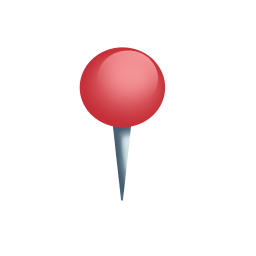
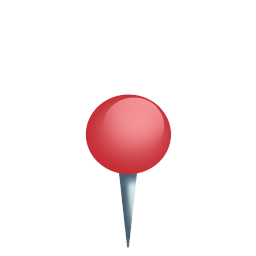
lots of things idr

Changed region(s): [[0.3125, 0.1562, 0.6875, 0.9688]]

diff --git a/src/main.c b/src/main.c
@@ -13,6 +13,8 @@
 #include "click.h"
 #include "vectors.h"
 
+#include "create_popup.h"
+
 int main(int argc, char** argv){
 
 
@@ -37,7 +39,7 @@ int main(int argc, char** argv){
 	}
 
 	for(uint32_t i=0; i<WIDTH*HEIGHT; i++){
-		layer_background[i] = 0xff000000;
+		layer_background[i] = 0xffffffff;
 		layer_ui[i] = 0x00000000;
 		layer_overlay[i] = 0x00000000;
 	}
@@ -59,21 +61,27 @@ int main(int argc, char** argv){
 	
 	texture_t img_button_world = load_image("assets/button_world.png");
 	texture_t img_button_heat = load_image("assets/button_heat.png");
+	texture_t img_button_wind = load_image("assets/button_wind.png");
+	texture_t img_button_humidity = load_image("assets/button_humidity.png");
 
 	texture_t img_solarpanel_base = load_image("assets/solarpanel_base.png");
 	texture_t img_solarpanel_humid = load_image("assets/solarpanel_humid.png");
 	texture_t img_solarpanel_hot = load_image("assets/solarpanel_hot.png");
 	texture_t img_solarpanel_cloudy = load_image("assets/solarpanel_cloudy.png");
 	texture_t img_windturbine_base = load_image("assets/windturbine_base.png");
-	qlog("loaded testimg\n");
-	disp_image(layer_background, testimg, (vec2ui){0, 0}, (vec2ui){WIDTH, HEIGHT});
-	qlog("displayed testimg\n");
+	texture_t img_waterenergy_base = load_image("assets/water_energy.png");
+	texture_t img_geothermal_base = load_image("assets/geothermal_base.png");
+	texture_t img_biofuel_base = load_image("assets/biofuel_base.png");
+	
+	// qlog("loaded testimg\n");
+	// disp_image(layer_background, testimg, (vec2ui){0, 0}, (vec2ui){WIDTH, HEIGHT});
+	// qlog("displayed testimg\n");
 
 	texture_t bitmap_font = load_image("assets/bitmapfont.png");
 
 	texture_t testtext = render_text(bitmap_font, "test?!", 8);
 	// disp_image(layer_background, testtext, (vec2ui){0, 0}, (vec2ui){240, 80});
-	disp_image(layer_background, testtext, (vec2ui){0, 0}, (vec2ui){640, 80});
+	// disp_image(layer_background, testtext, (vec2ui){0, 0}, (vec2ui){640, 80});
 
 
 
@@ -90,14 +98,15 @@ int main(int argc, char** argv){
 	uint8_t button_down = 0;
 
 
-	const uint32_t ui_button_count = 3;
+	const uint32_t ui_button_count = 4;
 	texture_t ui_button_textures[ui_button_count];
 	
 	ui_button_textures[0] = img_button_world;
-	ui_button_textures[1] = img_windturbine_base;
+	ui_button_textures[1] = img_button_wind;
 	ui_button_textures[2] = img_button_heat;
+	ui_button_textures[3] = img_button_humidity;
 	
-	vec2ui ui_button_size = {128, 128};
+	vec2ui ui_button_size = {96, 96};
 	// vec2ui ui_button_start = {WIDTH - ui_button_size.x, (HEIGHT/2)};
 	vec2ui ui_button_start = {WIDTH - ui_button_size.x, 0};
 	for(uint32_t i=0; i<ui_button_count; i++){
@@ -113,6 +122,20 @@ int main(int argc, char** argv){
 	uint8_t pin_active = 0;
 	vec2ui pin_size = {64, 64};
 
+	vec2ui previous_popup = {0, 0};
+	texture_t popup_icons[ENERGY_TYPES * CONDITION_TYPES];
+	popup_icons[0*CONDITION_TYPES + 0] = img_solarpanel_base;
+	popup_icons[0*CONDITION_TYPES + 1] = img_solarpanel_humid;
+	popup_icons[0*CONDITION_TYPES + 2] = img_solarpanel_hot;
+
+	popup_icons[1*CONDITION_TYPES + 0] = img_windturbine_base;
+
+	popup_icons[2*CONDITION_TYPES + 0] = img_waterenergy_base;
+	
+	popup_icons[3*CONDITION_TYPES + 0] = img_geothermal_base;
+	
+	popup_icons[4*CONDITION_TYPES + 0] = img_biofuel_base;
+
 
 /*
 	SDL setup
@@ -126,6 +149,10 @@ int main(int argc, char** argv){
 	uint32_t frame_time;
 
 	qlog("before mainloop\n");
+
+
+	// disp_fill(window, 0xffffffff);
+	// disp_image(layer_background, img_world, (vec2ui){0, 0}, (vec2ui){WIDTH - ui_button_size.x, HEIGHT});
 
 	uint8_t done = 0;
 	while(!done){
@@ -153,13 +180,13 @@ int main(int argc, char** argv){
 			// qprint("tag : %x\n", clicked_button->tag);
 			switch(clicked_button->tag){
 				case BT_SHOW_WORLD:
-					disp_image(layer_background, img_world, (vec2ui){0, 0}, (vec2ui){WIDTH, HEIGHT});
+					disp_image(layer_background, img_world, (vec2ui){0, 0}, (vec2ui){WIDTH - ui_button_size.x, HEIGHT});
 					break;
 				case BT_SHOW_WIND:
-					disp_image(layer_background, img_windmap, (vec2ui){0, 0}, (vec2ui){WIDTH, HEIGHT});
+					disp_image(layer_background, img_windmap, (vec2ui){0, 0}, (vec2ui){WIDTH - ui_button_size.x, HEIGHT});
 					break;
 				case BT_SHOW_HEAT:
-					disp_image(layer_background, img_heatmap, (vec2ui){0, 0}, (vec2ui){WIDTH, HEIGHT});
+					disp_image(layer_background, img_heatmap, (vec2ui){0, 0}, (vec2ui){WIDTH - ui_button_size.x, HEIGHT});
 					break;
 				default:
 					break;
@@ -188,7 +215,7 @@ int main(int argc, char** argv){
 		if((mouse_state.buttons&0b11) ^ ((mouse_state.buttons>>2)&0b11) && !button_down){
 		
 			if((mouse_state.pos.x < ui_button_start.x - (pin_size.x/2) || mouse_state.pos.y < ui_button_start.y)
-				&& mouse_state.pos.x >= pin_size.x && mouse_state.pos.y >= pin_size.y){
+				&& mouse_state.pos.x >= pin_size.x && mouse_state.pos.y >= pin_size.y && mouse_state.pos.y < HEIGHT){
 				if(pin_active){
 					for(uint32_t y=pin_position.y - (pin_size.y); y<pin_position.y; y++){
 						for(uint32_t x=pin_position.x - (pin_size.x/2); x<pin_position.x + (pin_size.x/2); x++){
@@ -196,6 +223,9 @@ int main(int argc, char** argv){
 						}
 					}
 				}
+				
+				previous_popup = create_popup(layer_ui, popup_icons, bitmap_font, NULL, mouse_state.pos, previous_popup);
+				
 				pin_position = (vec2ui){
 					mouse_state.pos.x - (pin_size.x / 2),
 					mouse_state.pos.y - (pin_size.y)
@@ -206,7 +236,20 @@ int main(int argc, char** argv){
 					mouse_state.pos.y
 				};
 				pin_active = 1;
+
 				need_render = 1;
+			}
+
+		}
+
+		if((mouse_state.buttons&0b11) == 0b10){
+			if(pin_active){
+				for(uint32_t y=pin_position.y - (pin_size.y); y<pin_position.y; y++){
+					for(uint32_t x=pin_position.x - (pin_size.x/2); x<pin_position.x + (pin_size.x/2); x++){
+						layer_ui[y*WIDTH + x] = 0x00000000;
+					}
+				}
+				create_popup(layer_ui, NULL, bitmap_font, NULL, (vec2ui){-1, -1}, previous_popup);
 			}
 
 		}

diff --git a/src/popup.c b/src/popup.c
@@ -1,0 +1,74 @@
+#include <stdint.h>
+
+#include "config.h"
+
+#include "energy_names.h"
+#include "render_text.h"
+#include "vectors.h"
+#include "displayutils.h"
+
+#include "qprint.h"
+
+
+
+
+vec2ui create_popup(uint32_t* layer_ui, texture_t* icons, texture_t bitmap_font, int* datapoints, vec2ui pos, vec2ui previous_pos){
+
+
+	const vec2ui icon_size = {64, 64};
+	const uint32_t margin = 16;
+
+	const uint32_t text_size = icon_size.y*2/4;
+	const uint32_t text_line_max = 24;
+
+	vec2ui size = {(text_line_max*text_size/2) + icon_size.x + margin + margin + margin + margin, (ENERGY_TYPES*icon_size.y) + (margin*(ENERGY_TYPES+1))};
+	// qvald(size.x);
+	// qvald(size.y);
+
+	vec2ui start = {pos.x + 2*margin, pos.y};
+	vec2ui end = {pos.x + size.x, pos.y + size.y};
+	if(pos.x >= WIDTH/2){
+		start.x = pos.x - size.x - 2*margin;
+		end.x = pos.x - 2*margin;
+	}
+	if(pos.y >= HEIGHT/2){
+		start.y = pos.y - size.y;
+		end.y = pos.y;
+	}
+	
+
+
+	//erase previous
+	for(uint32_t y=previous_pos.y; y<previous_pos.y + size.y; y++){
+		for(uint32_t x=previous_pos.x; x<previous_pos.x + size.x; x++){
+			layer_ui[y*WIDTH + x] = 0x00000000;
+		}
+	}
+	if(pos.x == -1u || pos.y == -1u) return previous_pos;
+	for(uint32_t y=start.y; y<end.y; y++){
+		for(uint32_t x=start.x; x<end.x; x++){
+			layer_ui[y*WIDTH + x] = 0xff000000;
+		}
+	}
+
+	char* names[ENERGY_TYPES] = {ENERGY_SOLAR, ENERGY_WIND, ENERGY_WATER, ENERGY_THERMAL, ENERGY_BIO};
+	
+	uint32_t x = start.x + margin;
+	uint32_t y = start.y + margin;
+	texture_t tmp_text;
+	for(int i=0; i<ENERGY_TYPES; i++){
+		
+		disp_image(layer_ui, icons[i*CONDITION_TYPES], (vec2ui){x, y}, icon_size);
+		
+		// tmp_text = render_text(bitmap_font, "Place Holder\nProduction: 33%", text_line_max);
+		// tmp_text = render_text(bitmap_font, "Place Holder", text_line_max);
+		tmp_text = render_text(bitmap_font, names[i], text_line_max);
+		disp_image(layer_ui, tmp_text, (vec2ui){x + icon_size.x + margin, y}, (vec2ui){text_size*text_line_max/2, text_size/2});
+		free(tmp_text.pixels);
+		tmp_text = render_text(bitmap_font, "Efficieny:33%", text_line_max);
+		disp_image(layer_ui, tmp_text, (vec2ui){x + icon_size.x + margin, y + text_size}, (vec2ui){text_size*text_line_max/2, text_size/2});
+		free(tmp_text.pixels);
+		y += icon_size.y + margin;
+	}
+	return start;
+}

diff --git a/src/render_text.c b/src/render_text.c
@@ -42,7 +42,7 @@ texture_t render_text(texture_t bitmap_font, char* str, uint32_t width){
 			continue;
 		}
 		else if('A' <= str[i] && str[i] <= 'M'){
-			qprint("AAAAAAAAaa\n");
+			// qprint("AAAAAAAAaa\n");
 			mx = (str[i]-'A')*(cw+1);
 			my = 0;
 		}
@@ -173,8 +173,8 @@ texture_t render_text(texture_t bitmap_font, char* str, uint32_t width){
 
 		for(uint32_t dy=0; dy<ch; dy++){
 			for(uint32_t dx=0; dx<cw; dx++){
-				qvald(mx);
-				qvald(my);
+				// qvald(mx);
+				// qvald(my);
 				// t.pixels[((y+dy)*t.width) + (x+dx)] = bitmap_font.pixels[(((ch+1)*my)+dy)*bitmap_font.width + (((cw+1)*mx)+dx)];
 				t.pixels[((y+dy)*t.width) + (x+dx)] = bitmap_font.pixels[(my+dy)*bitmap_font.width + mx+dx];
 				// t.pixels[(y+dy)*t.width + (x+dx)] = 0xff000000;

diff --git a/include/config.h b/include/config.h
@@ -1,13 +1,15 @@
 #ifndef CONFIG
 #define CONFIG
 
-#define WIDTH (1920*2/3)
-#define HEIGHT (1080*2/3)
+#define WIDTH (1920*4/5)
+#define HEIGHT (1080*4/5)
 #define FPS (60)
 #define WINDOWNAME "assistant"
 #define SM_EXIT_KEY 'q'
 
 #define MAX_BUTTONS 256
+#define ENERGY_TYPES 5
+#define CONDITION_TYPES 3
 
 #define MAX_TEXTURE_COUNT (256) 
 #define MAX_TRIANGLE_COUNT (1000000)

diff --git a/include/energy_names.h b/include/energy_names.h
@@ -1,0 +1,11 @@
+#ifndef ENERGY_NAMES_H
+#define ENERGY_NAMES_H
+
+#define ENERGY_SOLAR "Solar Panels"
+#define ENERGY_WIND "Wind Turbines"
+#define ENERGY_WATER "Water Energy"
+#define ENERGY_THERMAL "Geothermal Energy"
+#define ENERGY_BIO "Bio Fuel"
+
+
+#endif

diff --git a/include/create_popup.h b/include/create_popup.h
@@ -1,0 +1,9 @@
+#ifndef CREATE_POPUP_H
+#define CREATE_POPUP_H
+
+#include "vectors.h"
+#include "displayutils.h"
+
+vec2ui create_popup(uint32_t* layer_ui, texture_t* icons, texture_t bitmap_font, int* datapoints, vec2ui pos, vec2ui previous_pos);
+
+#endif
